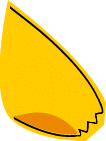
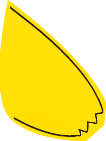
init

diff --git a/dist/index.2cdaf7bc.css b/dist/index.2cdaf7bc.css
@@ -6,7 +6,7 @@
 
 body {
   min-height: 100vh;
-  background: #f7cc00;
+  background: #ffe007;
 }
 
 .skin {
@@ -158,7 +158,7 @@ body {
 .mouth .up .lip {
   height: 30px;
   width: 100px;
-  background: #f7cc00;
+  background: #ffe007;
   border: 3px solid #0000;
   border-color: #0000 #0000 #000 #000;
   margin-left: -50px;
@@ -180,7 +180,7 @@ body {
   content: "";
   width: 7px;
   height: 30px;
-  background: #f7cc00;
+  background: #ffe007;
   display: block;
   position: absolute;
   bottom: 0;
@@ -198,7 +198,7 @@ body {
   content: "";
   width: 100px;
   height: 7px;
-  background: #f7cc00;
+  background: #ffe007;
   display: block;
   position: absolute;
   top: -6px;

diff --git a/src/style.css b/src/style.css
@@ -6,7 +6,7 @@
   margin: 0;
 }
 body {
-  background: #f7cc00;
+  background:#ffe007;
   min-height: 100vh;
 }
 .skin {
@@ -146,7 +146,7 @@ body {
   position: absolute;
   left: 50%;
   margin-left: -50px;
-  background: #f7cc00;
+  background: #ffe007;
 }
 .mouth .up .lip.left {
   border-radius: 0 0 0 50px;
@@ -163,7 +163,7 @@ body {
   height: 30px;
   position: absolute;
   bottom: 0;
-  background: #f7cc00;
+  background: #ffe007;
 }
 .mouth .up .lip.left::after {
   right: -6px;
@@ -178,7 +178,7 @@ body {
   height: 7px;
   position: absolute;
   top: -6px;
-  background: #f7cc00;
+  background: #ffe007;
 }
 .mouth .up .lip.left::before {
   left: 0;
